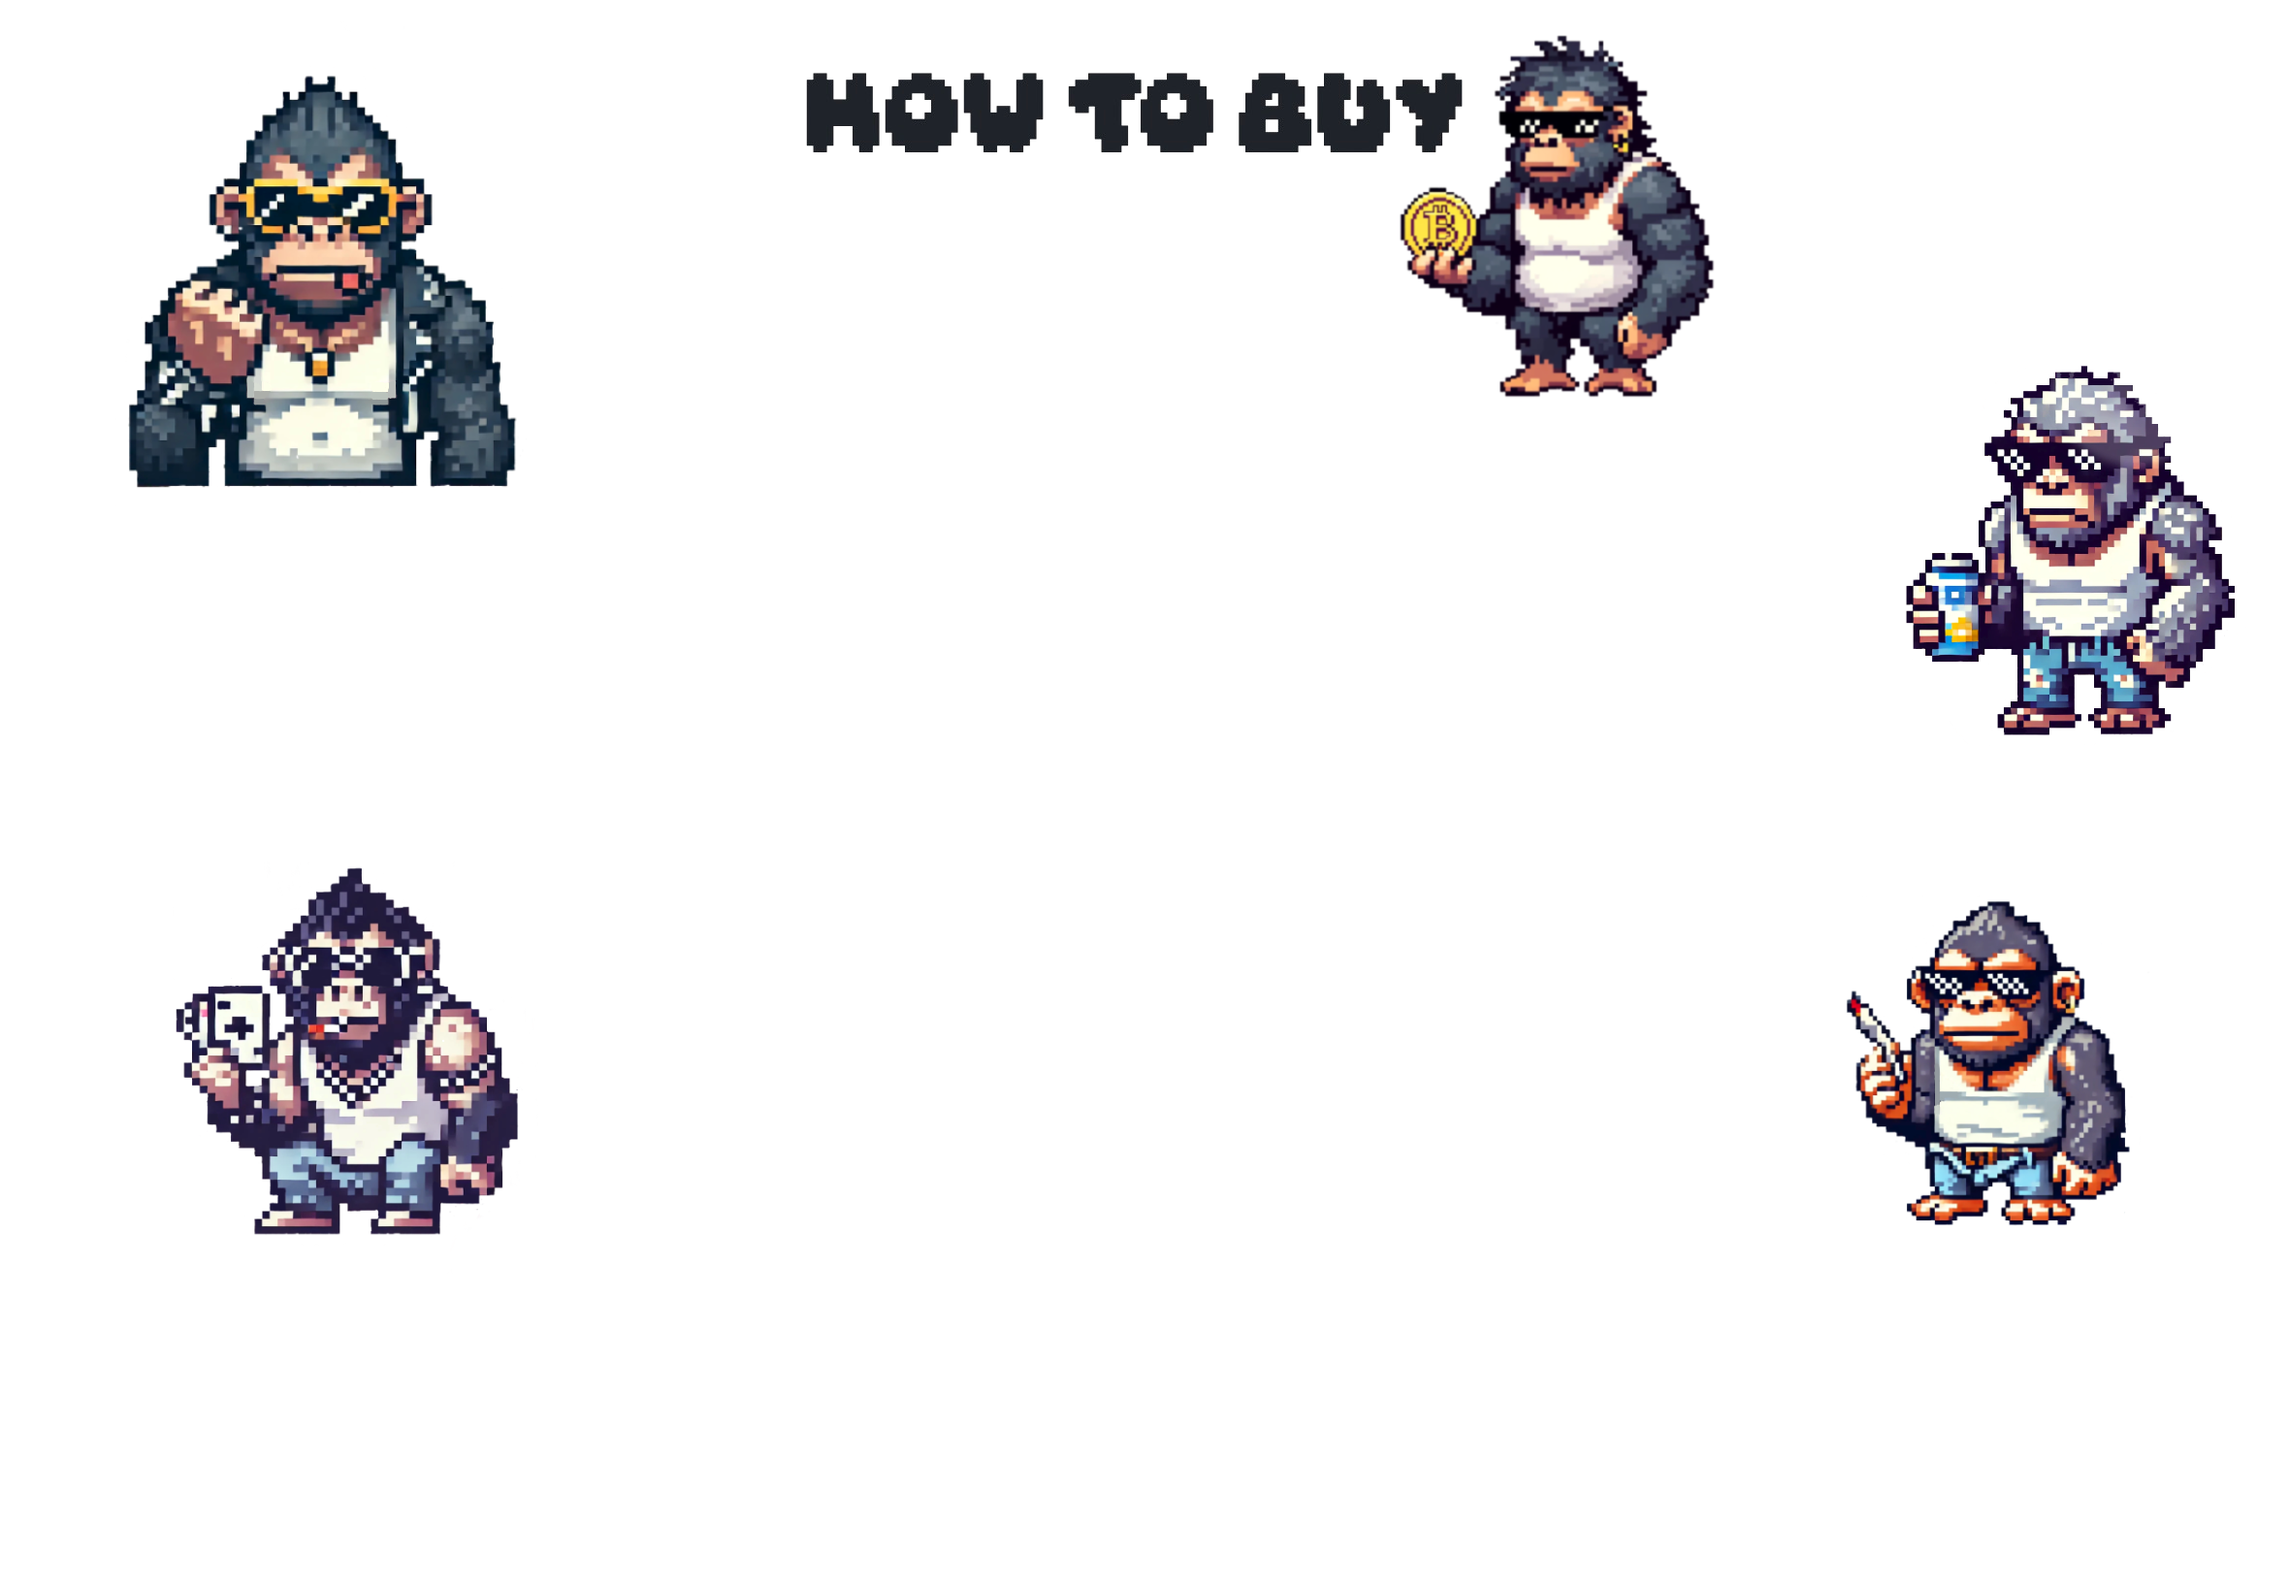
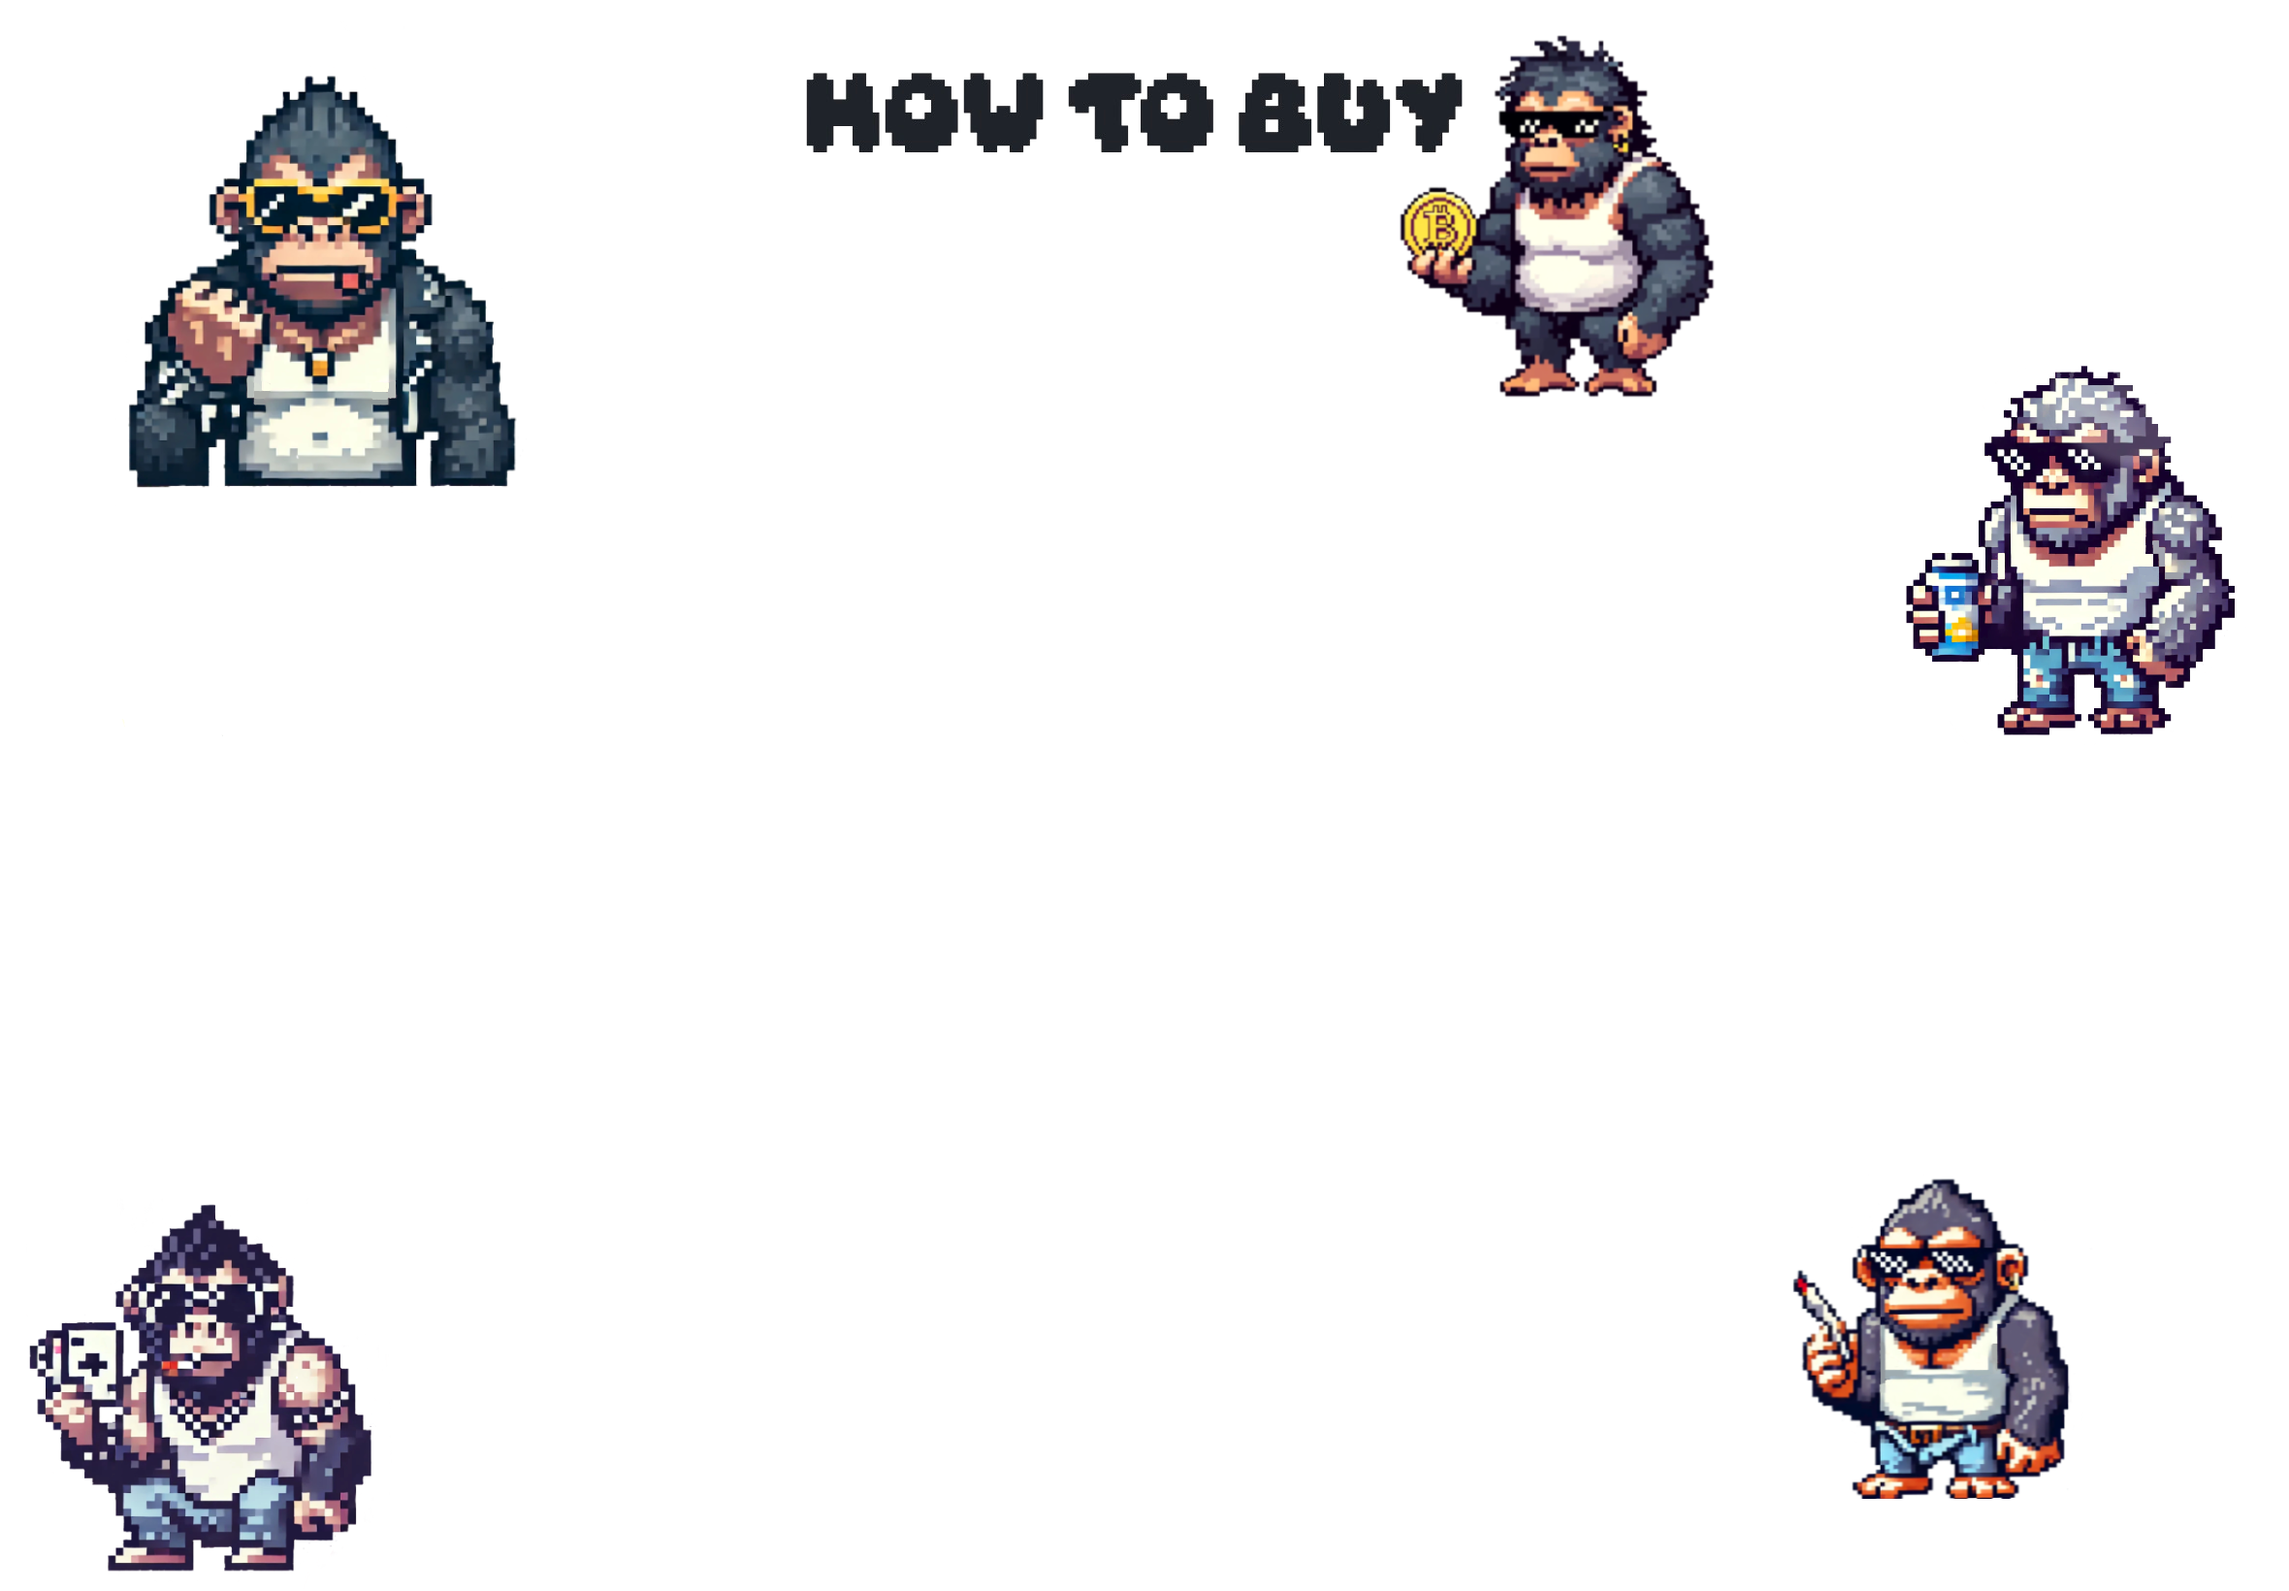
bg change

Changed region(s): [[0.0, 0.5598, 0.2475, 0.9951], [0.7733, 0.5598, 0.928, 0.964], [0.928, 0.3421, 0.9589, 0.3732]]

diff --git a/src/App.jsx b/src/App.jsx
@@ -1,13 +1,26 @@
-import React, {useState, useEffect} from 'react';
+import React, { useState, useEffect } from 'react';
 import './App.css';
 import { Parallax, ParallaxLayer } from '@react-spring/parallax';
 import Card from 'react-bootstrap/Card';
 import phantom from './assets/images/phantom.svg';
 import solana from './assets/images/solana.avif';
 import swap from './assets/images/swap.svg';
+import layer1 from './assets/images/layer1.png';
+import layer2 from './assets/images/layer2.png';
+import layer3 from './assets/images/layer3.png';
 
 function App() {
-  const windowWidth = useState(window.innerWidth);
+  const [isMobile, setIsMobile] = useState(window.innerWidth < 768);
+
+  useEffect(() => {
+    console.log(isMobile);
+    const handleResize = () => {
+      setIsMobile(window.innerWidth < 768);
+    };
+
+    window.addEventListener('resize', handleResize);
+    return () => window.removeEventListener('resize', handleResize);
+  }, []);
 
   return (
     <div>
@@ -68,10 +81,21 @@ function App() {
 
 
         {/* PIXEL MONKEY LAYERS */}
-        <ParallaxLayer offset={1} speed={.25}>
-          <div className="w-full h-full layer1">
-          </div>
-        </ParallaxLayer>
+        {isMobile ? (
+          <ParallaxLayer offset={1} speed={.2}>
+            <div className="absolute top-0 left-0 w-full h-full flex justify-center">
+              <p className="mt-5 buy-text text-4xl font-bold">How to Buy</p>
+            </div>
+          </ParallaxLayer>
+        ) : (
+          <ParallaxLayer offset={1} speed={0.25}>
+            <div className="w-full h-full flex flex-col justify-center">
+              <img className='w-full h-1/3' src={layer1}/>
+              <img className='w-full h-1/3' src={layer2}/>
+              <img className='w-full h-1/3' src={layer3}/>
+            </div>
+          </ParallaxLayer>
+        )}
 
 
         <ParallaxLayer offset={1} speed={.35}>
@@ -81,7 +105,7 @@ function App() {
                 <Card.Img variant="top" src={phantom} />
                 <Card.Body className="d-flex flex-column flex-grow-1">
                   <Card.Title className="card-title text-center">Set up a wallet</Card.Title>
-                  <Card.Text className="flex-grow-1 text-center">
+                  <Card.Text className="flex-grow-1 text-center card-text">
                     Download a Solana-compatible wallet (Phantom, Solflare, Sollet, etc.).
                   </Card.Text>
                 </Card.Body>
@@ -91,7 +115,7 @@ function App() {
                 <Card.Img variant="top" src={solana} />
                 <Card.Body className="d-flex flex-column flex-grow-1">
                   <Card.Title className="card-title text-center">Buy SOL</Card.Title>
-                  <Card.Text className="flex-grow-1 text-center">
+                  <Card.Text className="flex-grow-1 text-center card-text">
                     Acquire SOL from a supported exchange (Coinbase, Binance, etc.) and send SOL to your wallet
                   </Card.Text>
                 </Card.Body>
@@ -101,7 +125,7 @@ function App() {
                 <Card.Img variant="top" src={swap} />
                 <Card.Body className="d-flex flex-column flex-grow-1">
                   <Card.Title className="card-title text-center">Swap SOL for DAPE</Card.Title>
-                  <Card.Text className="flex-grow-1 text-center">
+                  <Card.Text className="flex-grow-1 text-center card-text">
                     Copy the CA below and then swap SOL for DAPE either through a DEX or directly in your wallet.
                   </Card.Text>
                 </Card.Body>
@@ -116,7 +140,7 @@ function App() {
           speed={.5}
         >
           <div className='flex justify-center absolute bottom-1/12 w-full'>
-            <p className='ca-text'>CA: NOT OUT YET</p>
+            <p className='ca-text drop-shadow-[2px_2px_0px_white]'>CA: NOT OUT YET</p>
           </div>
         </ParallaxLayer>
 

diff --git a/src/App.css b/src/App.css
@@ -13,6 +13,13 @@
   font-style: normal;
 }
 
+@font-face {
+  font-family: 'Minecraft';
+  src: url('./assets/fonts/minecraft.ttf') format('truetype');
+  font-weight: normal;
+  font-style: normal;
+}
+
 .landing-page {
   background-image: url('./assets/images/degenape4.webp');
   background-size: cover;
@@ -63,9 +70,26 @@ body {
   font-size: 1rem;
 }
 
+.card-text {
+  font-family: 'Minecraft', sans-serif;
+  font-size: .8rem;
+}
+
 .layer1 {
-  background-image: url('./assets/images/degenapebg.png');
-  background-size: cover;
-  background-position: center center no-repeat;
+  background-image: url('./assets/images/degenapelayer1.png');
+  background-size: contain;
+  background-repeat: no-repeat;
+  background-position: top center;
   overflow-x: hidden;
+}
+
+.cards-container {
+  display: flex;
+  gap: 1.25rem; /* Adjust spacing between cards */
+  overflow-x: auto; /* Enables horizontal scrolling */
+  scroll-snap-type: x mandatory;
+  -webkit-overflow-scrolling: touch;
+  padding: 1rem;
+  white-space: nowrap;
+  width: 100vw;
 }
